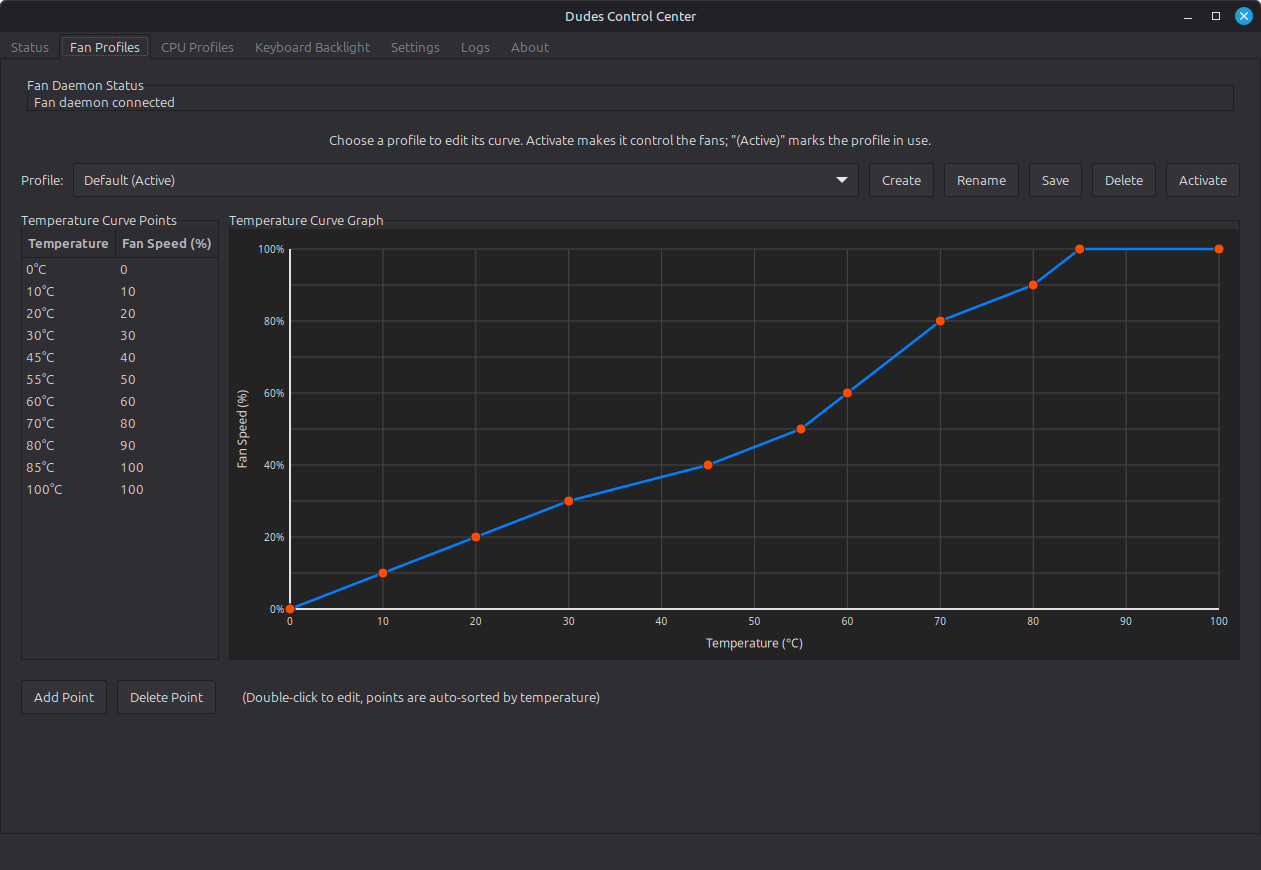
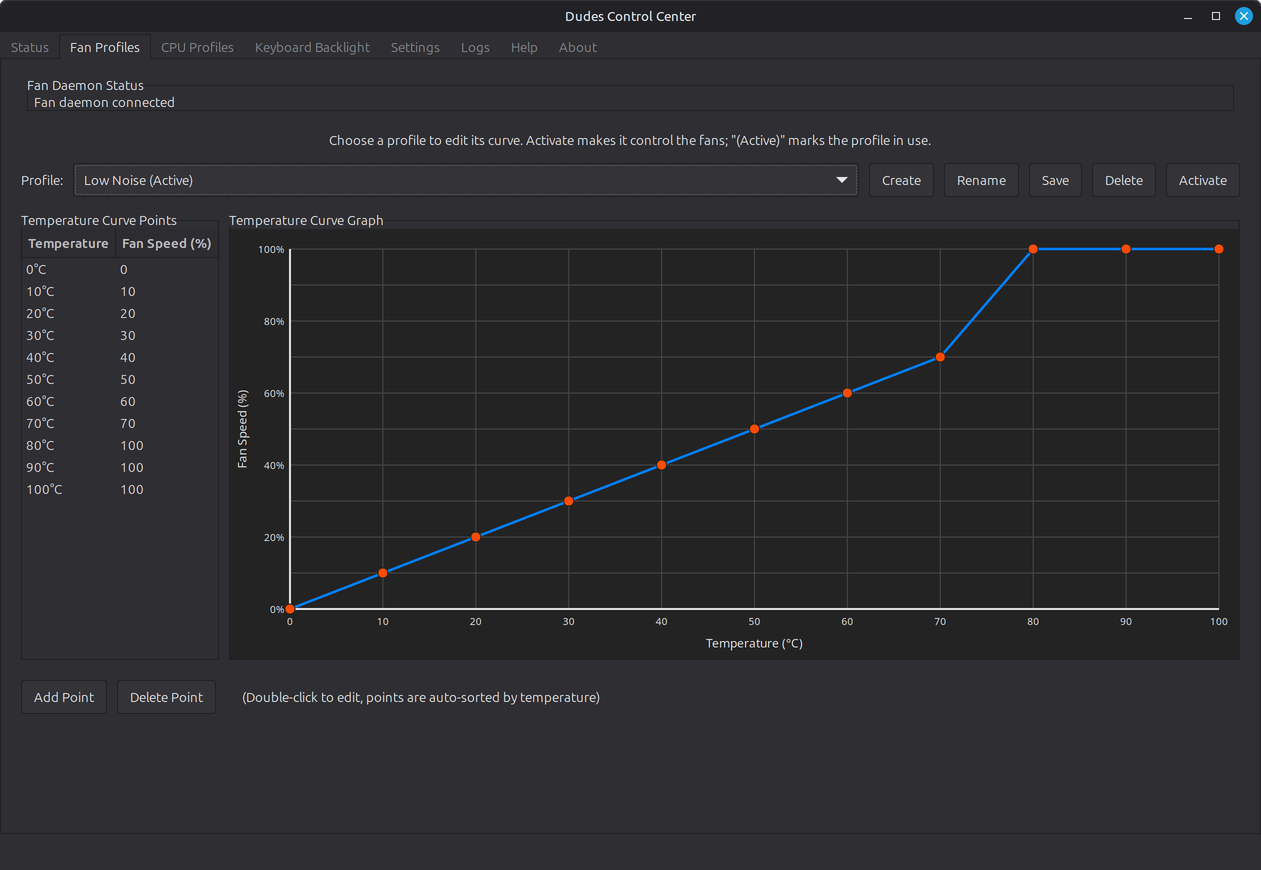
Docs: renewed screenshots of all tabs, Help tab screenshot
The home folder path in the Logs screenshot is blurred.

diff --git a/CHANGELOG.md b/CHANGELOG.md
@@ -15,7 +15,10 @@ Programs and services were named `dudes-control-center-*` before 1.19.0 (for exa
 - Tests: effects drawn on the fake LEDs (Rainbow changes over time, Wave per column, Breathing only in its zone, nothing while switched off), saved and loaded with a profile, invalid effects rejected, the CLI option; the GUI's effect parsing, encoding and unsaved-change detection.
 
 ### Changed
-- **Faster keyboard updates (`ite_829x`)**: every color write sent the unchanged keyboard brightness as a second USB message. The driver now sends it only when it changes, which should about double the rate of full-keyboard updates (measured before: 9.7 frames per second for all 120 keys, 58 for a 20-key zone). The daemon writes only keys whose color changed.
+- **Faster keyboard updates (`ite_829x`)**: every color write sent the unchanged keyboard brightness as a second USB message. The driver now sends it only when it changes, which doubles the rate: all 120 keys 19.5 frames per second (before 9.7), a 20-key zone 116 (before 58), measured on the X58xWNx. The daemon writes only keys whose color changed.
+
+### Documentation
+- README screenshots of all tabs renewed (effect controls, new logo, Help tab in the tab bar), and a screenshot of the Help tab added.
 
 ## [1.34.4] - 2026-11-24
 

diff --git a/README.md b/README.md
@@ -115,8 +115,8 @@ Click a picture for the full size.
 | [![CPU Profiles tab](docs/screenshots/cpu-profiles.png)](docs/screenshots/cpu-profiles.png) | [![Keyboard Backlight tab](docs/screenshots/keyboard-backlight.png)](docs/screenshots/keyboard-backlight.png) |
 | **Settings** | **Logs** |
 | [![Settings tab](docs/screenshots/settings.png)](docs/screenshots/settings.png) | [![Logs tab](docs/screenshots/logs.png)](docs/screenshots/logs.png) |
-| **About** | |
-| [![About tab](docs/screenshots/about.png)](docs/screenshots/about.png) | |
+| **Help** | **About** |
+| [![Help tab](docs/screenshots/help.png)](docs/screenshots/help.png) | [![About tab](docs/screenshots/about.png)](docs/screenshots/about.png) |
 
 ## Command line
 
